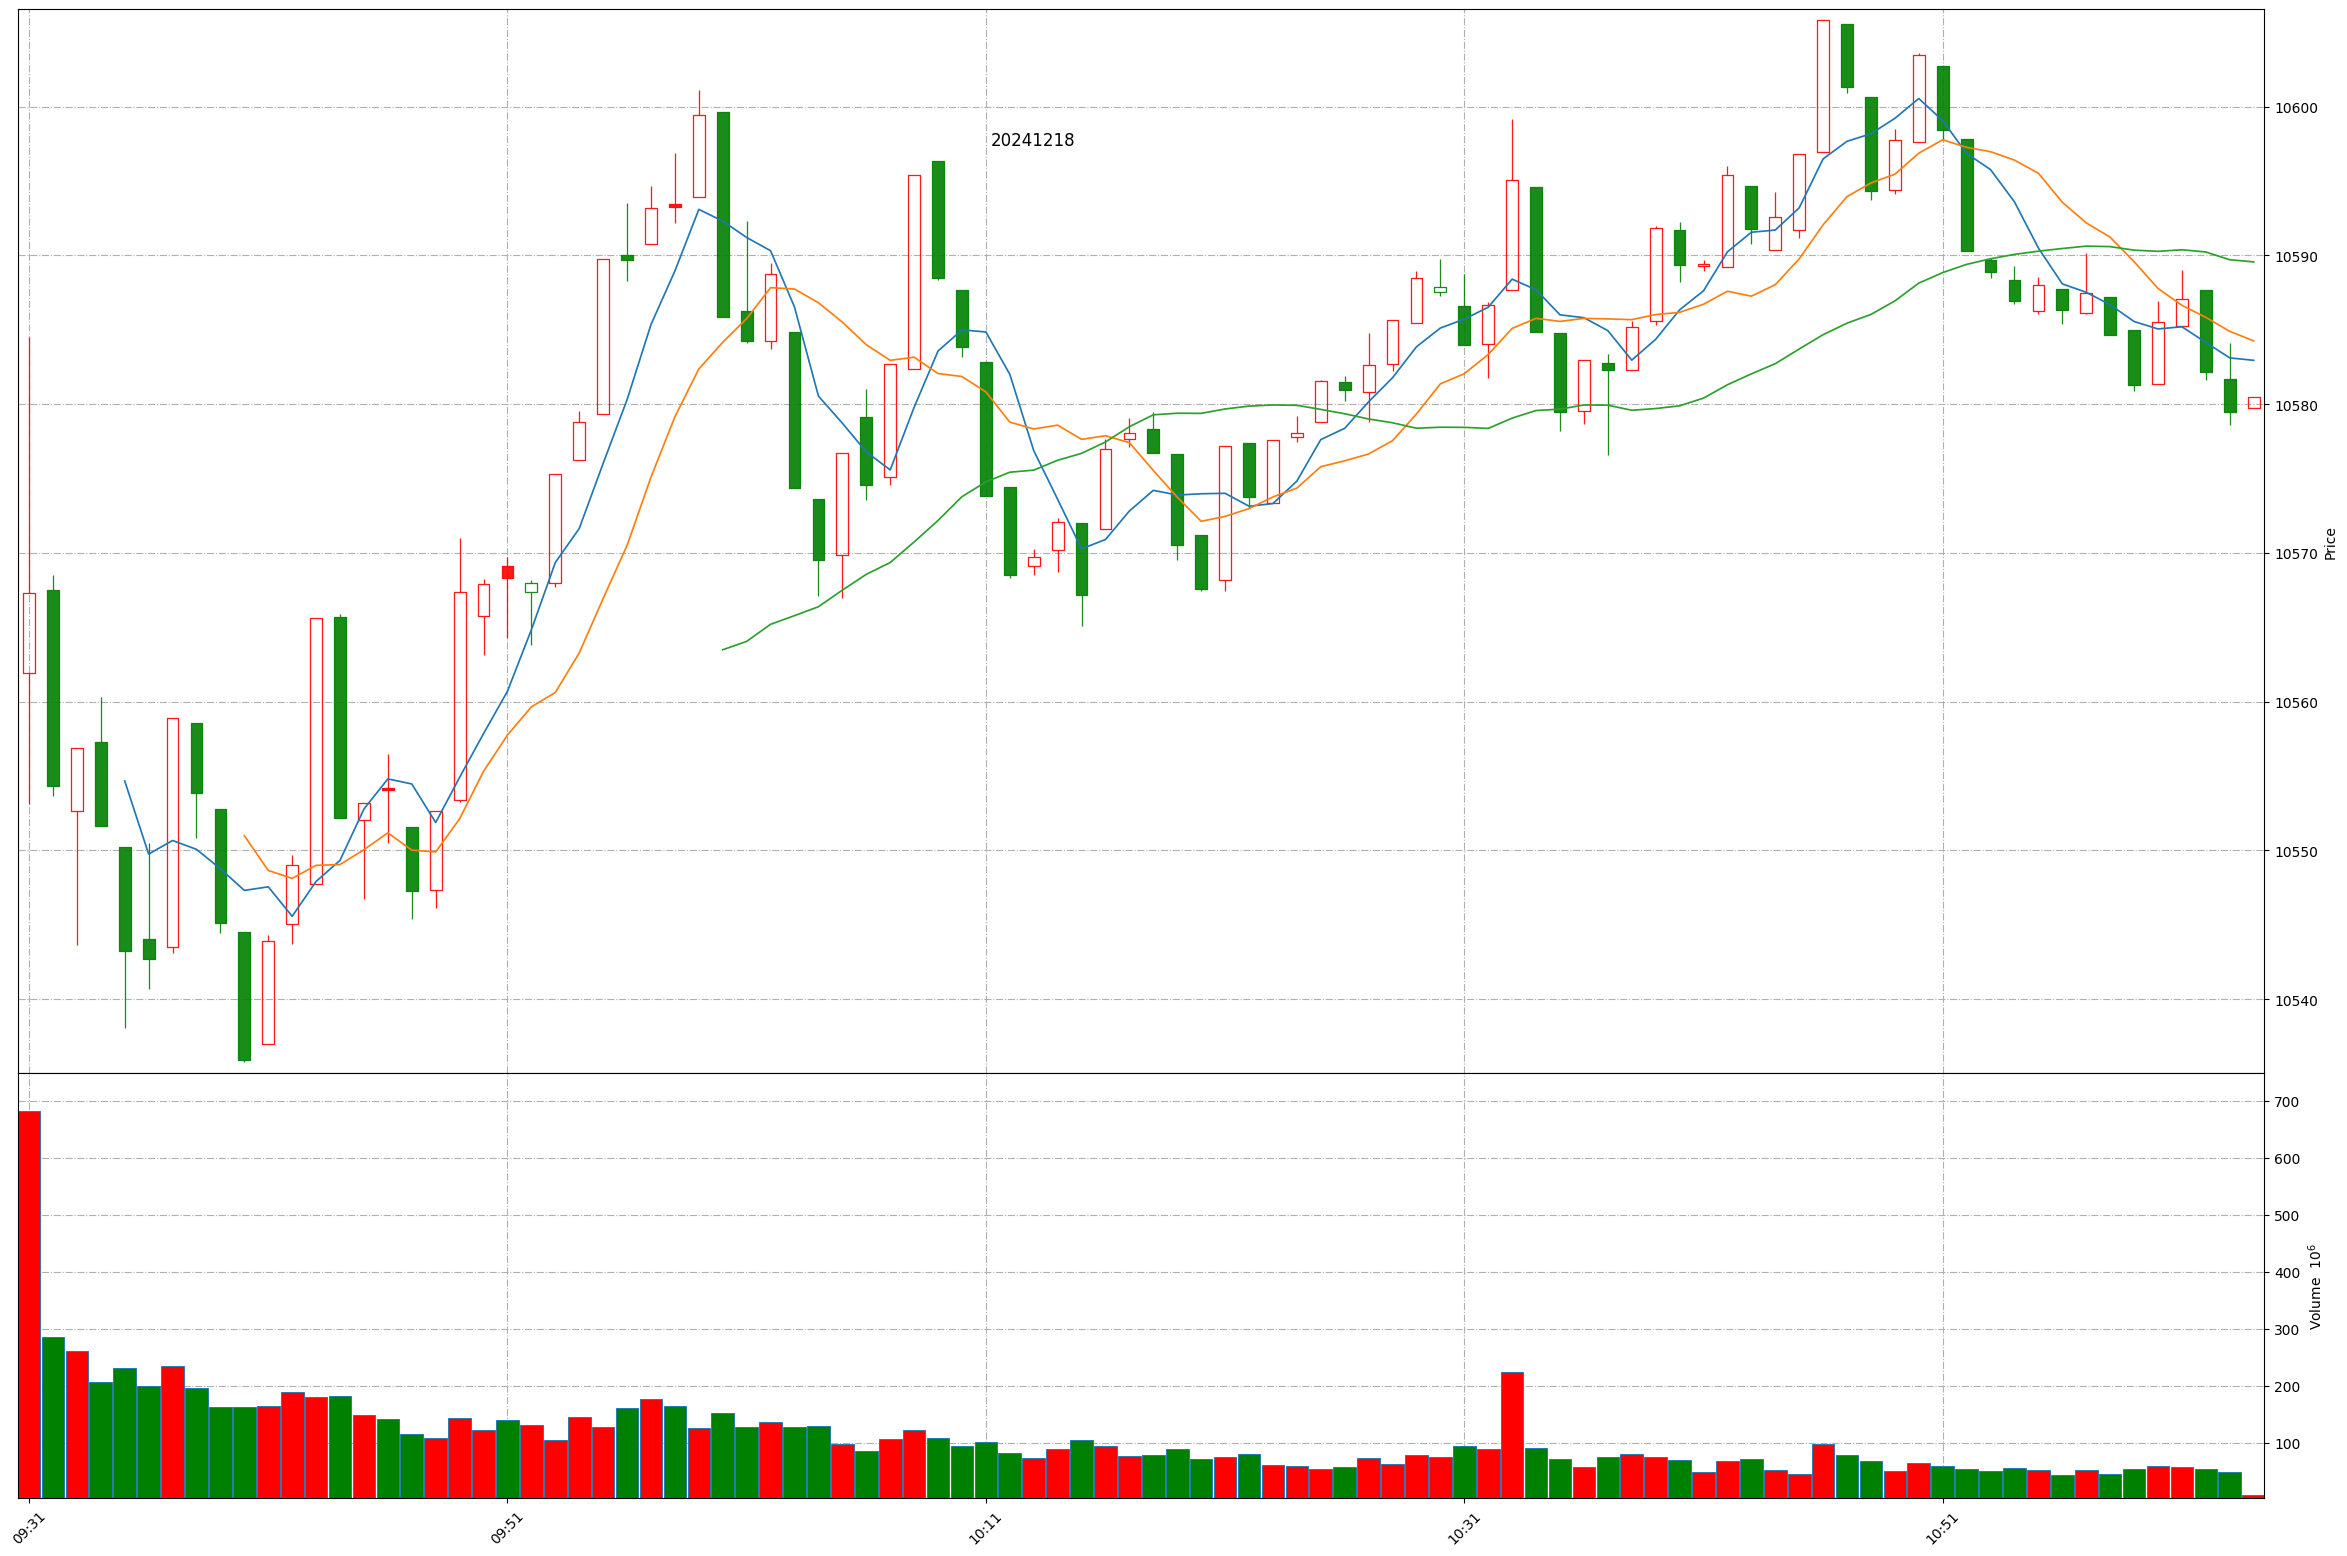
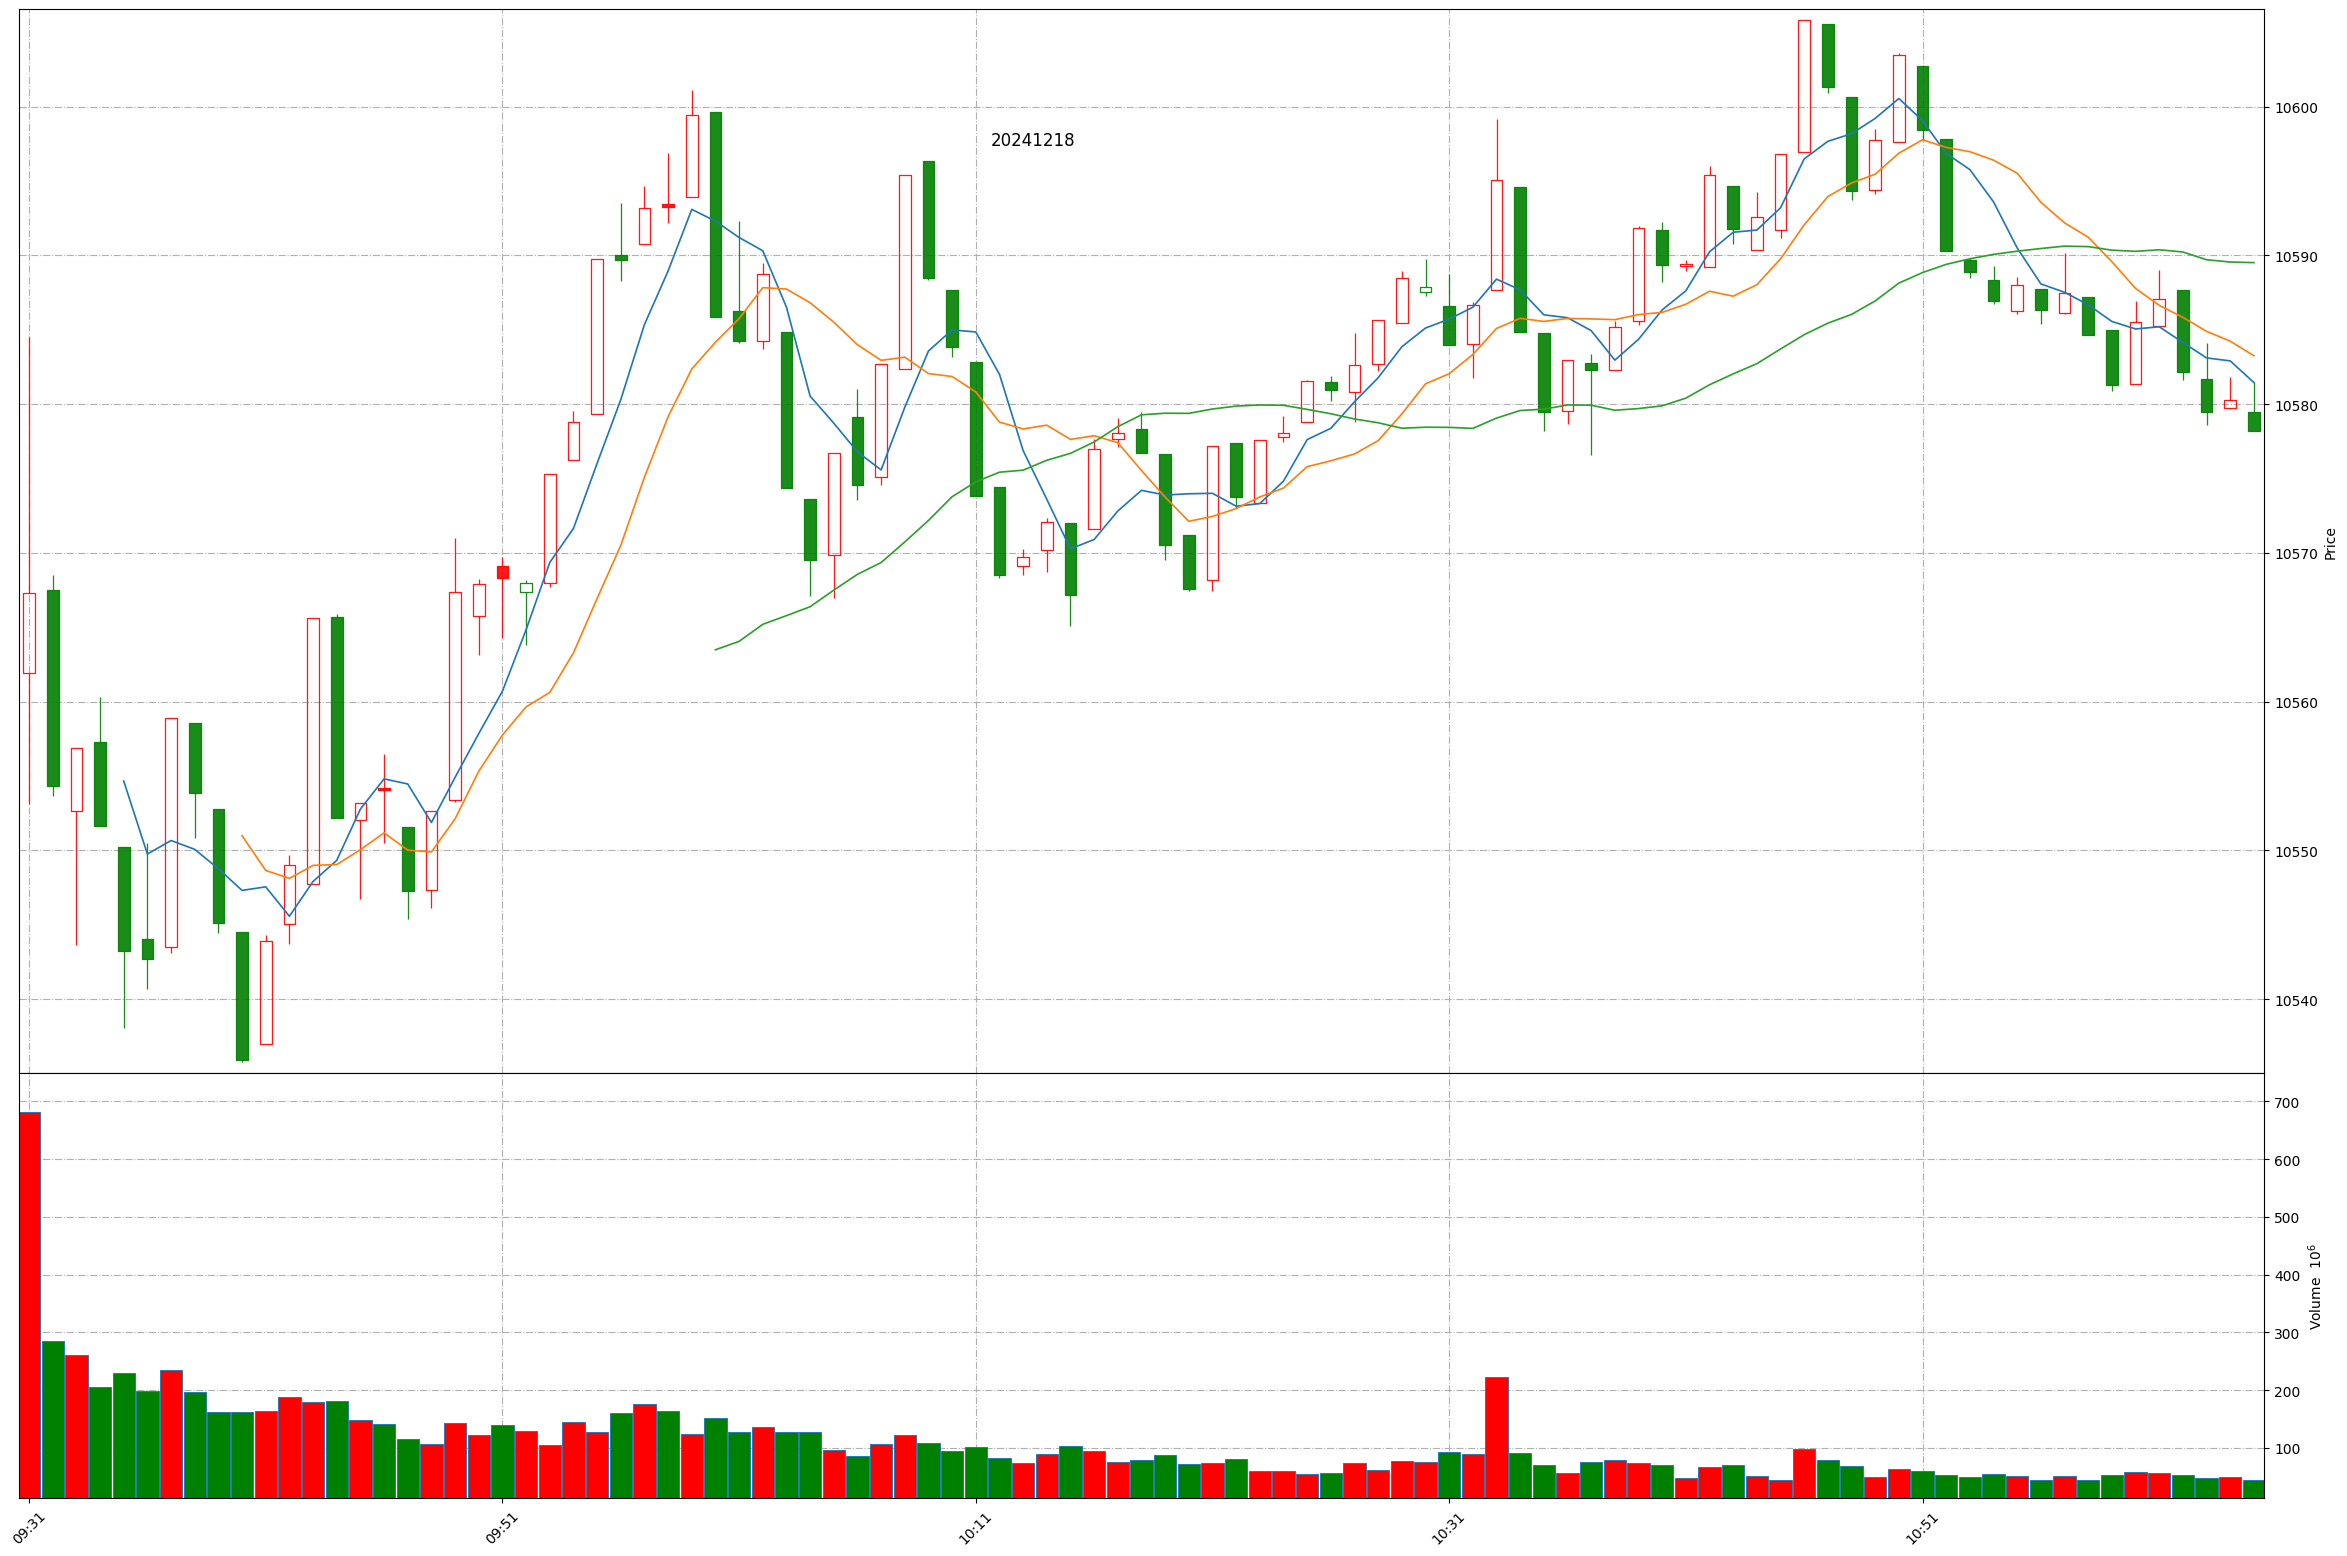
Github action update at 2024-12-18 11:05:15.

Changed region(s): [[0.0311, 0.0, 0.9642, 0.6787], [0.0311, 0.8638, 0.9642, 0.9871], [0.7776, 0.1851, 0.8087, 0.2159]]

diff --git a/README.md b/README.md
@@ -1,11 +1,11 @@
 
 # Daily-A-share-market-quotes 每日 A 股指数（5min 更新）- 20241218
 
-### 上证指数 20241218 11:3
+### 上证指数 20241218 11:5
 ![](./fig/2024/12/20241218-sh000001.png)
 
-### 深证成指 20241218 11:3
+### 深证成指 20241218 11:5
 ![](./fig/2024/12/20241218-sz399001.png)
 
-### 北证50 20241218 11:3
+### 北证50 20241218 11:5
 ![](./fig/2024/12/20241218-bj899050.png)
